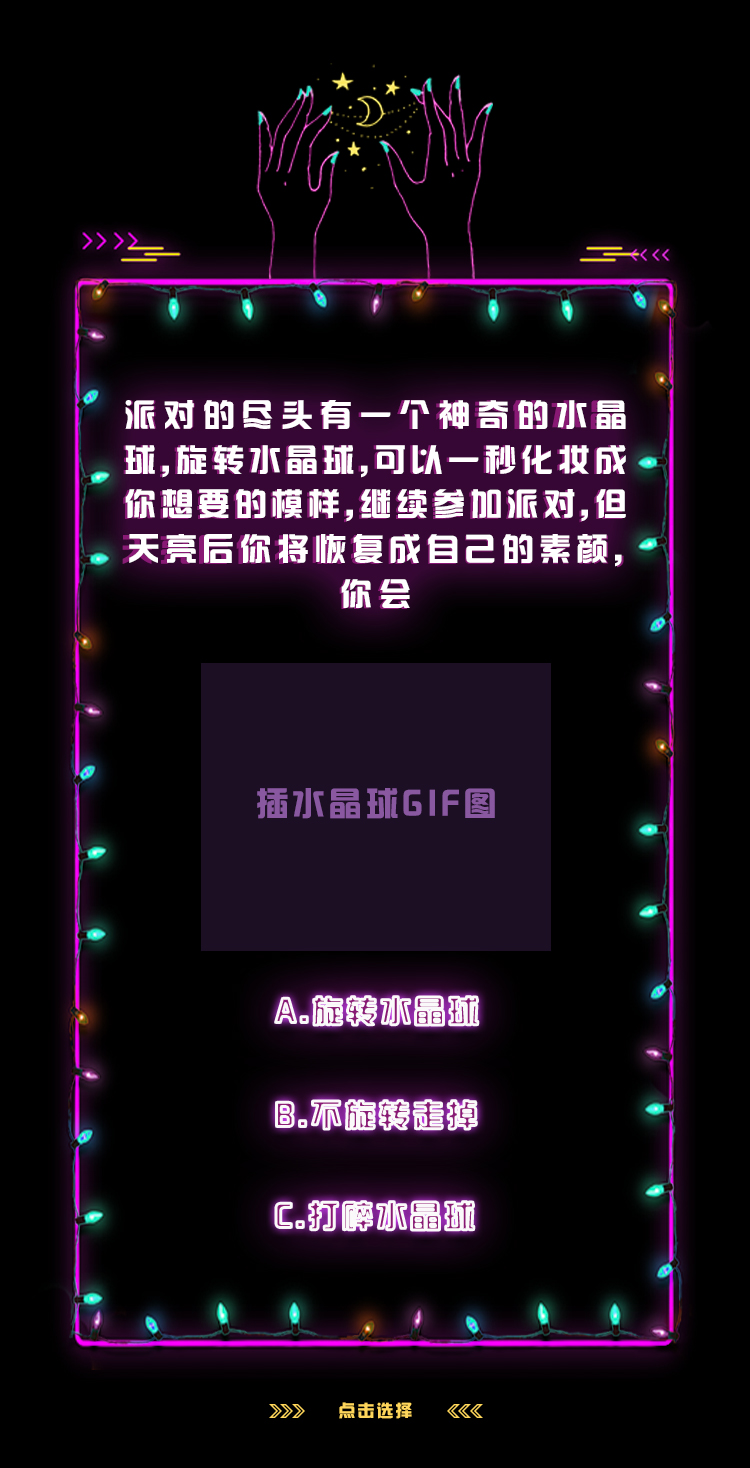
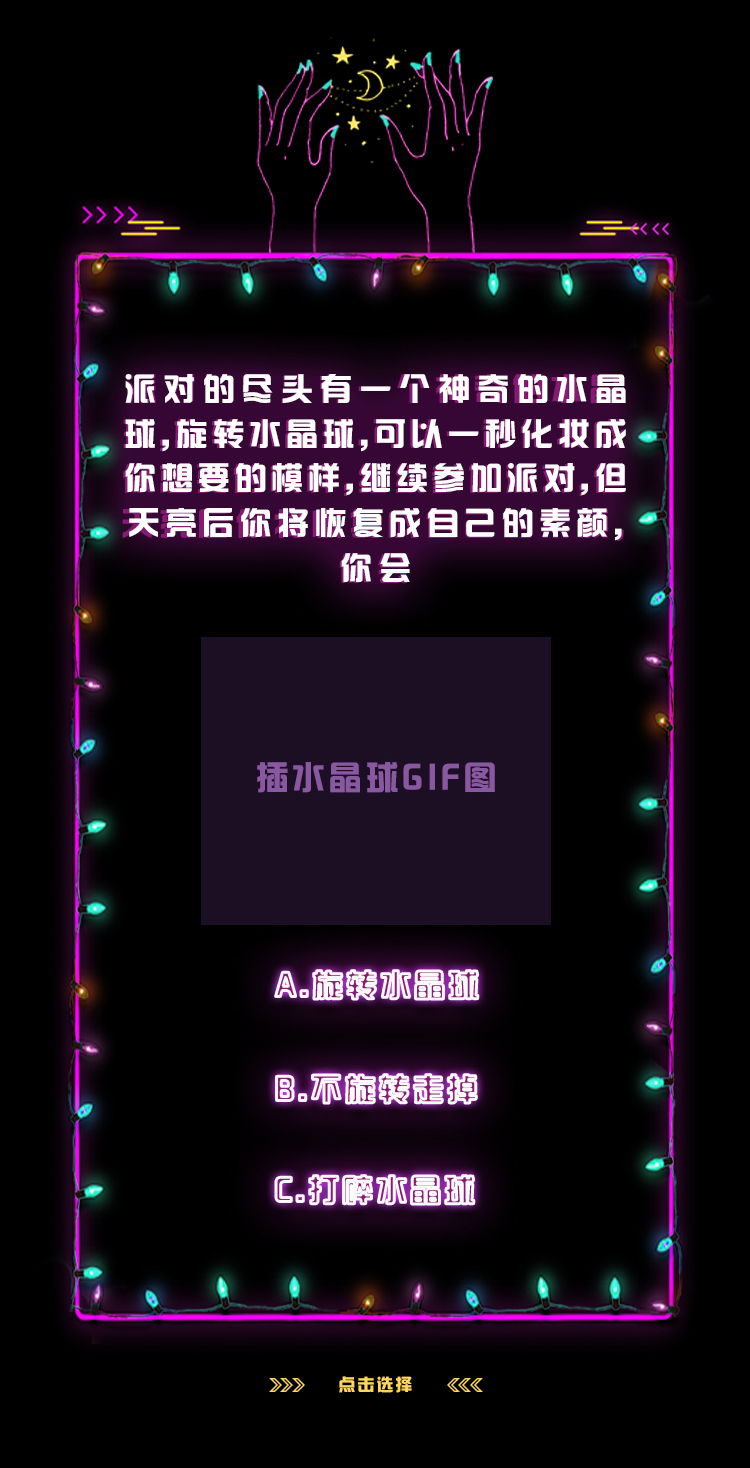
finish the style

Changed region(s): [[0.092, 0.0307, 0.92, 0.9809], [0.3373, 0.5211, 0.6747, 0.5824]]

diff --git a/css/main.css b/css/main.css
@@ -503,46 +503,46 @@ body,html{
 
 
 /*page3 iphone 4'7''*/
-/*.pageThree{
-    background: #00FF00 url(../images/BGref/page3.jpg) no-repeat fixed top;
+.pageThree{
+    /*background: #00FF00 url(../images/BGref/p3.jpg) no-repeat fixed top;
     background-position: center center;
     background-size: cover;
-    z-index: 30;
+    z-index: 30;*/
     opacity: 1;
-}*/
+}
 .quizContent{
     width: 100%;
     height: auto;
     text-align: center;
 }
 .quiz_three{
-    width: 71vw;
-    font-size: 0.95rem;
-    margin: 11vw auto 0 auto;
-    text-align: justify;
-    padding-left: 4.5vw;
-    letter-spacing: 0.29rem;
+    width: 73vw;
+    font-size: 0.98rem;
+    margin: 10.5vw auto 0 auto;
+    text-align: center;
+    padding-left: 2.5vw;
+    letter-spacing: 0.3rem;
     opacity: 0;
 }
 
 .quiz_three_1{
-    margin-top: 0vw;
+    margin-top: -0.6vw;
     letter-spacing: 0.22rem;
 }
 
 .quiz_three_2{
-    margin-top: 0vw;
+    margin-top: -0.6vw;
     letter-spacing: 0.22rem;
 }
 
 .quiz_three_3{
-    margin-top: 0vw;
+    margin-top: -0.6vw;
     letter-spacing: 0.24rem;
 }
 
 .quiz_three_br{
     text-align: center;
-    margin-top: 0;
+    margin-top: -0.6vw;
 }
 
 
@@ -560,15 +560,15 @@ body,html{
 .q3_crystalContainer{
     width: 100%;
     text-align: center;
-    margin-top: 3vw;
+    margin-top: 3.5vw;
 }
 .q3_crystal{
-    width: 47vw;
-    padding-left: 0;
+    width: 43vw;
+    margin-left: -5vw;
 }
 
 .option_btn_q3{
-    width: 33.2vw;
+    width: 33.5vw;
     height: 10.4912vw;
 }
 
@@ -602,24 +602,23 @@ body,html{
 }
 
 .q3_a{
-    margin: 2.2vw 0 0 33.6vw;
+    margin: 1.2vw 0 0 33.6vw;
 }
 
 .q3_b{
-    margin: 12vw 0 0 33.6vw;
+    margin: 11vw 0 0 33.6vw;
 }
 
 .q3_c{
-    margin: 22vw 0 0 33.6vw;
+    margin: 21vw 0 0 33.6vw;
 }
 
 
 /*page4 iphone 4'7''*/
 .pageFour{
-    /*background: #00FF00 url(../images/page4.jpg) no-repeat fixed top;
+    /*background: #00FF00 url(../images/BGref/p4.jpg) no-repeat fixed top;
     background-position: center center;
     background-size: cover;
-
     z-index: 50;*/
     opacity: 1;
 }
@@ -670,32 +669,33 @@ body,html{
     background-size: 100%;
 }
 .option_btn_musicA{
-    top: 57vw;
+    top: 55vw;
     left: 45vw;
     width: 10.2vw;
 }
 .option_btn_musicB{
-    top: 91.5vw;
+    top: 89.5vw;
     left: 45vw;
     width: 10.2vw;
 }
 
 .q4_a{
-    margin: 12.2vw 0 0 33.6vw;
+    margin: 11.2vw 0 0 33.6vw;
 }
 
 
 .q4_b{
-    margin: 45vw 0 0 33.6vw;
+    margin: 43vw 0 0 33.6vw;
 }
 
 
 
 /*page5 iphone 4'7''*/
 .pageFive{
-    /*background: #00FF00 url(../images/BGref/page5.jpg) no-repeat fixed top;*/
+    /*background: #00FF00 url(../images/BGref/p5.jpg) no-repeat fixed top;
     background-position: center center;
     background-size: cover;
+    z-index: 50;*/
     opacity: 1;
 }
 
@@ -705,7 +705,7 @@ body,html{
 .top_five {
     width: 34.9vw;
     left: 31.5vw;
-    top: 2vw;
+    top: 5vw;
     opacity: 0;
 }
 
@@ -740,22 +740,22 @@ body,html{
 }
 
 .q5_a {
-    margin: 11.2vw 0 0 37.6vw;
+    margin: 8.2vw 0 0 36.6vw;
 }
 .q5_b {
-    margin: 39.2vw 0 0 37.6vw;
+    margin: 39.6vw 0 0 36.6vw;
 }
 
 
 .option_lipstick{
-   width: 34.9vw;
+   width: 36vw;
 }
 .pink{
-margin:16.1vw 0 0 31.2vw;
+    margin: 12.1vw 0 0 -20.8vw;
 }
 
 .red{
-margin: 45vw 0 0 30.8vw;
+    margin: 43vw 0 0 -21.2vw;
 }
 .quiz_five {
 width: 71vw;
@@ -1075,8 +1075,8 @@ letter-spacing: 0.26rem;
      .pageTwo{
          /*background: url(../images/BGref/xp2.jpg) no-repeat fixed top;
          background-position: center center;
-         background-size: cover;*/
-         z-index: 30;
+         background-size: cover;
+         z-index: 30;*/
      }
 
     .quiz_two {
@@ -1131,23 +1131,22 @@ letter-spacing: 0.26rem;
 
     /*page3 iphone X*/
     /*.pageThree{
-        background: #00FF00 url(../images/BGref/xpage3.jpg) no-repeat fixed top;
+        background: #00FF00 url(../images/BGref/xp3.jpg) no-repeat fixed top;
         background-position: center center;
         background-size: cover;
-
         !*z-index: 40;*!
     }*/
 
     .top_three {
         width: 38.8vw;
         left: 30vw;
-        top: 6.2vw;
+        top: 3.2vw;
     }
 
     .quiz_three {
         width: 71vw;
         padding-left: 5.5vw;
-        margin: 13.8vw auto 0 auto;
+        margin: 10.8vw auto 0 auto;
         text-align: justify;
         font-size: 0.93rem;
         letter-spacing: 0.29rem;
@@ -1178,7 +1177,7 @@ letter-spacing: 0.26rem;
     }*/
     .q3_crystal{
         width: 46vw;
-        margin: -3vw 0 0 11vw;
+        margin: -6vw 0 0 11vw;
     }
 
     .option_btn_q3{
@@ -1187,11 +1186,11 @@ letter-spacing: 0.26rem;
     }
 
     .q3_a{
-        margin: 5vw 0 0 33.5vw;
+        margin: 3vw 0 0 33.5vw;
     }
 
     .q3_b{
-        margin: 18vw 0 0 33.5vw;
+        margin: 17vw 0 0 33.5vw;
     }
 
     .q3_c{
@@ -1200,7 +1199,7 @@ letter-spacing: 0.26rem;
 
     /*page4 iphoneX*/
     .pageFour{
-        /*background: #00FF00 url(../images/BGref/xpage4.jpg) no-repeat fixed top;
+        /*background: #00FF00 url(../images/BGref/xp4.jpg) no-repeat fixed top;
         background-position: center center;
         background-size: cover;
 
@@ -1210,12 +1209,12 @@ letter-spacing: 0.26rem;
     .top_four {
         width: 42.9vw;
         left: 27.5vw;
-        top: 9.5vw;
+        top: 5.5vw;
     }
 
     .quiz_four {
         width: 72vw;
-        margin: 13.5vw auto 0 auto;
+        margin: 10.5vw auto 0 auto;
     }
 
     .option_btn_q4 {
@@ -1223,25 +1222,25 @@ letter-spacing: 0.26rem;
         height: 9.7967vw;
     }
     .q4_a {
-        margin: 20.2vw 0 0 32.6vw;
+        margin: 15.2vw 0 0 32.6vw;
     }
     .q4_b {
-        margin: 61vw 0 0 32.6vw;
+        margin: 56vw 0 0 32.6vw;
     }
     .option_btn_musicA {
-        top: 71vw;
-        left: 44vw;
-        width: 11.2vw;
+        top: 59.5vw;
+        left: 43vw;
+        width: 13.2vw;
     }
     .option_btn_musicB {
-        top: 111.5vw;
-        left: 44vw;
-        width: 11.2vw;
+        top: 101.5vw;
+        left: 43vw;
+        width: 13.2vw;
     }
 
     /*page5 iphoneX*/
     .pageFive{
-        /*background: #00FF00 url(../images/BGref/xpage5.jpg) no-repeat fixed top;
+       /* background: #00FF00 url(../images/BGref/xp5.jpg) no-repeat fixed top;
         background-position: center center;
         background-size: cover;
         z-index: 60;*/
@@ -1250,12 +1249,12 @@ letter-spacing: 0.26rem;
     .top_five {
         width: 43.9vw;
         left: 26.8vw;
-        top: 4.5vw;
+        top: 0.5vw;
     }
 
     .quiz_five {
         width: 69vw;
-        margin: 13.6vw auto 0 auto;
+        margin: 10.6vw auto 0 auto;
         /* letter-spacing: 0.3rem; */
         font-size: 0.96rem;
         padding-left: 2.8vw;
@@ -1267,25 +1266,25 @@ letter-spacing: 0.26rem;
         height:10.2573vw;
     }
     .q5_a {
-        margin: 15.2vw 0 0 37.6vw;
+        margin: 11.2vw 0 0 37.6vw;
     }
     .q5_b {
-        margin: 53.2vw 0 0 37.6vw;
+        margin: 49.2vw 0 0 37.6vw;
     }
 
     .pageCanvas{
         margin-top: 15vw;
     }
     .option_lipstick{
-        width: 35.2vw;
+        width: 35.5vw;
     }
 
     .pink{
-        margin: 25.3vw 0 0 30.2vw;
+        margin: 20.3vw 0 0 -19.8vw;
     }
 
     .red{
-        margin: 63.5vw 0 0 30.2vw;
+        margin: 58.5vw 0 0 -19.8vw;
     }
 
     /*pageInput iphone X*/
